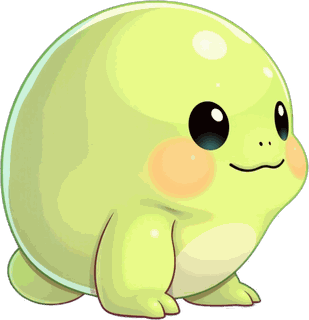
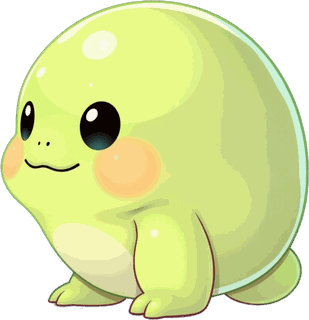
v0.92.0: 発見図鑑を交易所と説明書の間へ + スライムの向きを直す
★ タブの並び替え
  研究室 / 戦闘 / 交易所 / 発見図鑑 / 説明書 / ⚙設定
遊ぶ順(作る→戦う→交換する)が左、調べ物が右にまとまった。
index.html の nav と main.ts の TAB_BUTTONS を揃え、
battle_tab_check.ts に並びを固定する確認を足した。

★ スライム(blob)の向き
待機・詠唱・発射の3枚が右を向いていた。プレイヤーは左に立つので
向かい合っていない。その3枚を反転した。被弾は顔をそむけるので
右向きのままで正しい ― ヨルコウモリ(bird)とはちょうど逆の形。

判定は絵を2倍に拡大し、14種の待機を並べて突き合わせて決めた。
blob と wisp 以外の12種はすべて左を向いており、鼻先と目の位置で
向きを読む見方はその12種で裏が取れている。

subjects_flux.json の flip にも書いたので、引き直しても直る。
1枚ずつ指定する形(enemy:blob:idle)を使うこと ― ポーズを省いた形
(enemy:blob)は「4枚すべて」の意味になり、正しい被弾まで反転する。

diff --git a/test/battle_tab_check.ts b/test/battle_tab_check.ts
@@ -3,6 +3,7 @@
 // 見るのは
 //   ・上のメニューが「戦闘」だけになり、「オンライン」が消えているか
 //   ・「戦闘」の右に「交易所」があり、押すと開くか
+//   ・並びが 研究室 / 戦闘 / 交易所 / 発見図鑑 / 説明書 / ⚙設定 か
 //   ・戦闘タブに、出撃準備とオンラインの両方が出ているか
 //   ・ステージを選んでも、すぐには始まらないか(選ぶ=挑むではない)
 //   ・選んだステージが、ソロと共闘部屋の両方に使われるか
@@ -165,6 +166,14 @@ async function main(): Promise<void> {
     check('★「交易所」は戦闘のすぐ右', iShop === iBattle + 1,
       `戦闘=${iBattle} / 交易所=${iShop}`);
     check('★「交易所」が押せる', tabs[iShop]?.disabled === false);
+
+    // 並びは 研究室 / 戦闘 / 交易所 / 発見図鑑 / 説明書 / ⚙設定。
+    // 遊ぶ順(作る→戦う→交換する)を左に、調べ物を右にまとめてある。
+    const iBook = tabs.findIndex(t => t.id === 'tab-book');
+    const iManual = tabs.findIndex(t => t.id === 'tab-manual');
+    check('★「発見図鑑」は交易所と説明書の間',
+      iBook === iShop + 1 && iManual === iBook + 1,
+      `交易所=${iShop} / 発見図鑑=${iBook} / 説明書=${iManual}`);
 
     // 押すと交易所が開き、研究室は引っ込む
     await cdp.evaluate("document.querySelector('#tab-shop').click()");

diff --git a/index.html b/index.html
@@ -41,9 +41,9 @@
       </div>
       <nav>
         <button id="tab-lab" class="tab active">研究室</button>
-        <button id="tab-book" class="tab">発見図鑑</button>
         <button id="tab-battle" class="tab">戦闘</button>
         <button id="tab-shop" class="tab">交易所</button>
+        <button id="tab-book" class="tab">発見図鑑</button>
         <button id="tab-manual" class="tab">説明書</button>
         <button id="tab-settings" class="tab" title="引き継ぎ・初期化">⚙ 設定</button>
       </nav>

diff --git a/test/tap_zoom_check.ts b/test/tap_zoom_check.ts
@@ -168,9 +168,9 @@ async function main(): Promise<void> {
     // 主な画面をひと通り回って、拡大が起きる要素が残っていないか見る
     const tabs: [string, string][] = [
       ['#tab-lab', '研究室'],
-      ["#tab-book", "発見図鑑"],
       ['#tab-battle', '戦闘'],
       ['#tab-shop', '交易所'],
+      ['#tab-book', '発見図鑑'],
       ['#tab-manual', '説明書'],
     ];
     for (const [sel, name] of tabs) {

diff --git a/shared/version.ts b/shared/version.ts
@@ -4,6 +4,6 @@
 // BUILD_DATE は npm run build のたびに tools/stamp-version.mjs が
 // 実際の時刻(日本時間)で書き換えるので、手で触らないこと。
 
-export const VERSION = '0.91.0';
-export const BUILD_DATE = '2026-08-07 21:11';
+export const VERSION = '0.92.0';
+export const BUILD_DATE = '2026-08-07 21:20';
 export const COPYRIGHT = 'Copyright © 2026 YuriPapa';

diff --git a/src/main.ts b/src/main.ts
@@ -45,8 +45,9 @@ function battleInProgress(): boolean {
   return battle.isActive() || inBattleView();
 }
 
+// 画面に並んでいる順(index.html の nav と同じにしておく)
 const TAB_BUTTONS = [
-  '#tab-lab', '#tab-book', '#tab-battle', '#tab-shop', '#tab-manual',
+  '#tab-lab', '#tab-battle', '#tab-shop', '#tab-book', '#tab-manual',
   '#tab-settings',
 ];
 
